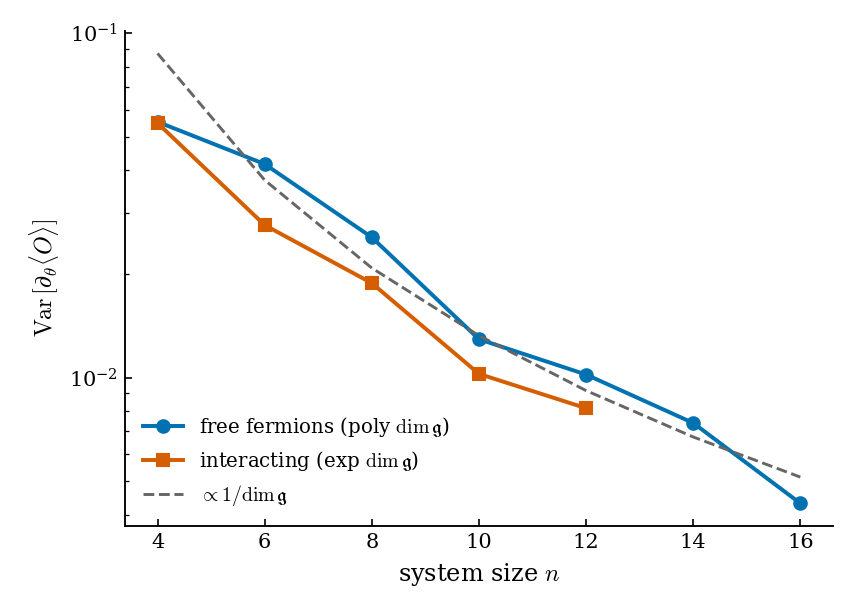
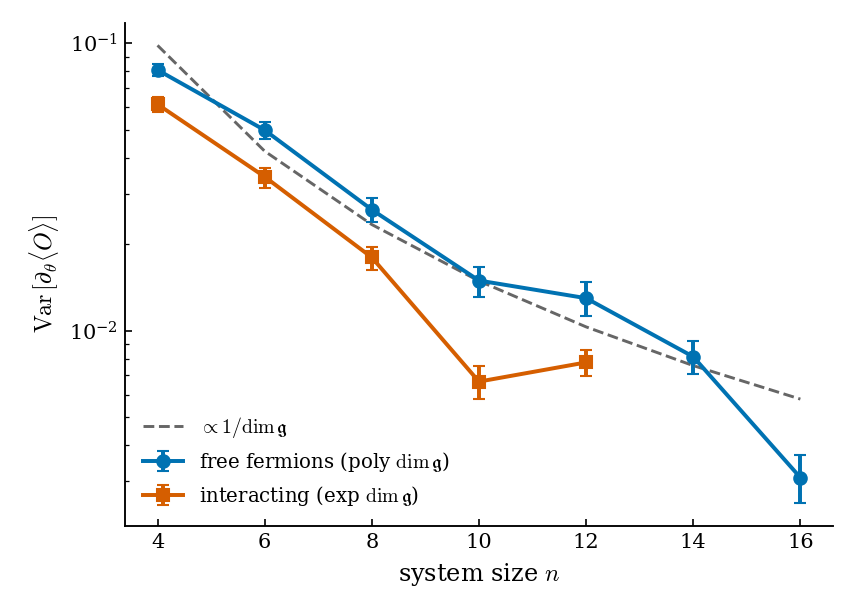
Finalize Fig 7 with Kaggle bootstrap-CI data (S=400, K=8); restore notebook to match
Variance scaling now plotted with 95% bootstrap error bars over the full range
(free n=4..16, interacting n=4..12) from the certified Kaggle run (all 5 validation
checks passed). Notebook/figure/caption aligned at S=400, K=8.

diff --git a/make_figs.py b/make_figs.py
@@ -76,17 +76,23 @@ ax.legend(loc="upper left")
 fig.tight_layout(); fig.savefig(OUT + "fig_dla_scale.pdf"); fig.savefig(OUT + "fig_dla_scale.png", dpi=150); plt.close(fig)
 
 # ===================== Figure: variance dichotomy (with bootstrap error bars) =====================
-# Data: (n, Var, CI_low, CI_high), 95% percentile bootstrap CIs over S=300 random theta, K=6
-# components, B=2000 resamples. Produced by gauge_trainability_kaggle.ipynb (PART 2); paste the
-# printed "model n Var CI_low CI_high" block here. INTERIM below = local small-n run (free only);
-# replace with the full Kaggle output (free n=4..16, interacting n=4..12) to extend the range.
+# Data: (n, Var, CI_low, CI_high), 95% percentile bootstrap CIs over S=400 random theta, K=8
+# components, B=2000 resamples. From gauge_trainability_kaggle.ipynb (PART 2), Kaggle run.
 DATA_FREE = [
-    (4, 6.503919e-02, 6.054617e-02, 6.931200e-02),
-    (6, 1.952866e-02, 1.739924e-02, 2.166218e-02),
-    (8, 6.792264e-03, 5.622321e-03, 7.961276e-03),
+    (4,  8.080535e-02, 7.668302e-02, 8.475552e-02),
+    (6,  4.989907e-02, 4.641236e-02, 5.309594e-02),
+    (8,  2.638157e-02, 2.381831e-02, 2.895198e-02),
+    (10, 1.495768e-02, 1.315828e-02, 1.662409e-02),
+    (12, 1.298858e-02, 1.127603e-02, 1.482174e-02),
+    (14, 8.127251e-03, 7.078172e-03, 9.220638e-03),
+    (16, 3.087136e-03, 2.518115e-03, 3.707460e-03),
 ]
 DATA_INT = [
-    # (n, Var, CI_low, CI_high)  -- fill from the Kaggle run (interacting)
+    (4,  6.136314e-02, 5.750889e-02, 6.492151e-02),
+    (6,  3.434880e-02, 3.136316e-02, 3.697462e-02),
+    (8,  1.799718e-02, 1.629399e-02, 1.955685e-02),
+    (10, 6.657901e-03, 5.787198e-03, 7.558043e-03),
+    (12, 7.764406e-03, 6.969959e-03, 8.575180e-03),
 ]
 
 def _ebar(ax, data, **kw):

diff --git a/make_notebook_train.py b/make_notebook_train.py
@@ -270,7 +270,7 @@ PART_VAR = r'''
 # ============== PART 2: gradient-variance scaling -- gauge-invariant, follows 1/dim g ==============
 # Estimator: mean over the K most active gradient components of the variance over S random theta;
 # 95% confidence interval by percentile bootstrap (B resamples) over the S samples.
-layers, S, K, B = 2, 300, 6, 2000
+layers, S, K, B = 2, 400, 8, 2000
 print("invariance check (Var ratio JW/BK should be exactly 1):")
 for model in ("free", "interacting"):
     for n in (4, 6, 8):